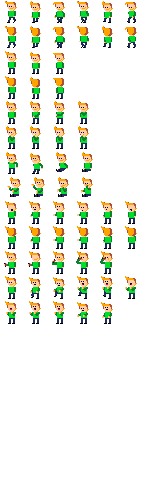
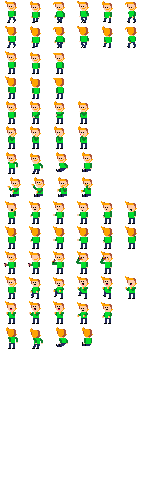
Add reverse sit

diff --git a/src/game/objects/ObjectInfoRegistry.ts b/src/game/objects/ObjectInfoRegistry.ts
@@ -28,36 +28,36 @@ export class ObjectInfoRegistry {
         this.objectInfos.push(new ObjectInfo(
             'Dispenser',
             [
-                new SpriteInfo('dispenser', [DIRECTION.BOTTOM], 4, -4, 3, -13, 0, 0)
+                new SpriteInfo('dispenser', [DIRECTION.BOTTOM], 4, -4, 3, -13, 0, 0, false, false)
             ],
             new Price(70)
         ));
         this.objectInfos.push(new ObjectInfo(
             'Sofa',
             [
-                new SpriteInfo('sofa', [DIRECTION.LEFT, DIRECTION.TOP, DIRECTION.RIGHT, DIRECTION.BOTTOM], 0, -8, 3, 0, 0, 0)
+                new SpriteInfo('sofa', [DIRECTION.LEFT, DIRECTION.TOP, DIRECTION.RIGHT, DIRECTION.BOTTOM], 0, -8, 3, 0, 0, 0, null, false)
             ],
             new Price(10)
         ));
         this.objectInfos.push(new ObjectInfo(
             'Desk',
             [
-                new SpriteInfo('chair', [DIRECTION.BOTTOM, DIRECTION.TOP, DIRECTION.LEFT], -10, -8, 5, 0, 0, 0),
-                new SpriteInfo('desk', [],0, 0, 4, 0, 0, 0)
+                new SpriteInfo('chair', [DIRECTION.BOTTOM, DIRECTION.TOP, DIRECTION.LEFT], -10, -8, 5, 0, 0, 0, false, false),
+                new SpriteInfo('desk', [],0, 0, 4, 0, 0, 0, false, false)
             ],
             new Price(20)
         ));
         this.objectInfos.push(new ObjectInfo(
             'Table',
             [
-                new SpriteInfo('chair2', [DIRECTION.TOP, DIRECTION.LEFT], -8, -9, 5, 0, 1, 1),
-                new SpriteInfo('table', [], 0, 0, 4, 0, 1, 1),
-                new SpriteInfo('chair2', [DIRECTION.BOTTOM, DIRECTION.LEFT], -8, -9, 5, 0, 1, 0),
-                new SpriteInfo('table', [], 0, 0, 4, 0, 1, 0),
-                new SpriteInfo('table_reverse', [], 0, 0, 4, 0, 0, 1),
-                new SpriteInfo('chair2_reverse', [DIRECTION.TOP, DIRECTION.RIGHT], 6, -5, 5, 0, 0, 1),
-                new SpriteInfo('table_reverse', [], 0, 0, 4, 0, 0, 0),
-                new SpriteInfo('chair2_reverse', [DIRECTION.BOTTOM, DIRECTION.RIGHT], 6, -5, 5, 0, 0, 0),
+                new SpriteInfo('chair2', [DIRECTION.TOP, DIRECTION.LEFT], -8, -9, 5, 0, 1, 1, false, false),
+                new SpriteInfo('table', [], 0, 0, 4, 0, 1, 1, false, false),
+                new SpriteInfo('chair2', [DIRECTION.BOTTOM, DIRECTION.LEFT], -8, -9, 5, 0, 1, 0, false, false),
+                new SpriteInfo('table', [], 0, 0, 4, 0, 1, 0, false, false),
+                new SpriteInfo('table_reverse', [], 0, 0, 10, 0, 0, 1, true, true),
+                new SpriteInfo('chair2_reverse', [DIRECTION.TOP, DIRECTION.RIGHT], 6, -5, 5, 0, 0, 1, true, true),
+                new SpriteInfo('table_reverse', [], 0, 0, 10, 0, 0, 0, true, true),
+                new SpriteInfo('chair2_reverse', [DIRECTION.BOTTOM, DIRECTION.RIGHT], 6, -5, 5, 0, 0, 0, true, true),
             ],
             new Price(12)
         ));

diff --git a/src/game/human_states/SitTalkState.ts b/src/game/human_states/SitTalkState.ts
@@ -38,9 +38,13 @@ export class SitTalkState extends AbstractState {
     getNextState(): HumanState {
         if (!this.isHumanOnTheRightCell && this.isNeighborPosition()) {
             this.isHumanOnTheRightCell = true;
-            this.human.interactWith(this.meeting.getCell(this.human), this.meeting.getTable().forceOrientation());
+            this.human.interactWith(this.meeting.getCell(this.human), this.meeting.getTable().forceOrientation(this.meeting.getCell(this.human).getIdentifier()));
             this.events.push(this.game.time.events.add(this.human.getWalkDuration() + 100, () => {
-                this.human.loadAnimation(ANIMATION.SIT_DOWN, this.meeting.getTable().forceOrientation());
+                this.human.loadAnimation(
+                    ANIMATION.SIT_DOWN,
+                    this.meeting.getTable().forceOrientation(this.meeting.getCell(this.human).getIdentifier()),
+                    this.table.forceTopOrientation(this.meeting.getCell(this.human).getIdentifier())
+                );
                 this.isHumanSit = true;
             }));
         }
@@ -117,7 +121,7 @@ export class SitTalkState extends AbstractState {
             this.game.time.events.remove(event);
         });
         this.human.hideTalkBubble();
-        this.human.loadAnimation(ANIMATION.STAND_UP, this.meeting.getTable().forceOrientation());
+        this.human.loadAnimation(ANIMATION.STAND_UP, this.meeting.getTable().forceOrientation(this.meeting.getCell(this.human).getIdentifier()));
         this.events.push(this.game.time.events.add(HumanAnimationManager.getAnimationTime(ANIMATION.STAND_UP) + 100, () => {
             this.human.goToFreeCell(this.meeting.getCell(this.human));
             this.events.push(this.game.time.events.add(this.human.getWalkDuration() + 100, () => {

diff --git a/src/game/objects/SpriteInfo.ts b/src/game/objects/SpriteInfo.ts
@@ -9,6 +9,8 @@ export class SpriteInfo {
     private gapLeft: number;
     private entryPoints: DIRECTION[];
     private cellGap: PIXI.Point;
+    private topOriented: boolean;
+    private leftOriented: boolean;
 
     constructor(
         name: string,
@@ -18,7 +20,9 @@ export class SpriteInfo {
         anchorBottom: number,
         gapLeft: number,
         cellGapX: number,
-        cellGapY: number
+        cellGapY: number,
+        leftOriented: boolean,
+        topOriented: boolean
     ) {
         this.name = name;
         this.entryPoints = entryPoints;
@@ -27,6 +31,8 @@ export class SpriteInfo {
         this.anchorBottom = anchorBottom;
         this.gapLeft = gapLeft;
         this.cellGap = new PIXI.Point(cellGapX, cellGapY);
+        this.leftOriented = leftOriented;
+        this.topOriented = topOriented;
     }
 
     getSpriteName(): string {
@@ -86,5 +92,20 @@ export class SpriteInfo {
         } else {
             return new PIXI.Point(this.cellGap.y, this.cellGap.x)
         }
+    }
+
+    getTopOrientation(): boolean {
+        return this.topOriented;
+    }
+
+    /**
+     * Returns false if the user looks to the right when he interacts with the object.
+     * Returns true if the user looks to the left when he interacts with the object.
+     *
+     * @param {boolean} leftOriented
+     * @returns {boolean}
+     */
+    getOrientation(leftOriented: boolean): boolean {
+        return leftOriented ? !this.leftOriented : this.leftOriented;
     }
 }

diff --git a/src/game/human_stuff/HumanAnimationManager.ts b/src/game/human_stuff/HumanAnimationManager.ts
@@ -57,8 +57,8 @@ export class HumanAnimationManager {
         switch (animation) {
             case ANIMATION.FREEZE: return topOriented ? [18, 19, 20] : [12, 13, 14];
             case ANIMATION.WALK: return topOriented ? [6, 7, 8, 9, 10, 11] : [0, 1, 2, 3, 4, 5];
-            case ANIMATION.SIT_DOWN: return [12, 36, 37, 38, 39];
-            case ANIMATION.STAND_UP: return [39, 38, 37, 36, 12];
+            case ANIMATION.SIT_DOWN: return topOriented ? [18, 78, 79, 80, 81] : [12, 36, 37, 38, 39];
+            case ANIMATION.STAND_UP: return topOriented ? [81, 80, 79, 78, 18] : [39, 38, 37, 36, 12];
             case ANIMATION.TYPE: return [42, 43, 44, 45];
             case ANIMATION.TALK: return topOriented ? [54, 55, 56, 57, 58, 59] : [48, 49, 50, 51, 52, 53];
             case ANIMATION.RAGE:
@@ -101,7 +101,13 @@ export class HumanAnimationManager {
     }
 
     private static hasTopOrientedVariation(animation: ANIMATION) {
-        return [ANIMATION.WALK, ANIMATION.FREEZE, ANIMATION.TALK].indexOf(animation) > -1;
+        return [
+            ANIMATION.WALK,
+            ANIMATION.FREEZE,
+            ANIMATION.TALK,
+            ANIMATION.SIT_DOWN,
+            ANIMATION.STAND_UP
+        ].indexOf(animation) > -1;
     }
 
 

diff --git a/src/game/objects/Sofa.ts b/src/game/objects/Sofa.ts
@@ -3,7 +3,6 @@ import {AbstractObject} from "./AbstractObject";
 import {ObjectDeleter} from "./ObjectDeleter";
 import {GROUP_INFOS} from "../game_state/Play";
 import {DeletableObjectInterface} from "./DeletableObjectInterface";
-import {Price} from "./Price";
 
 export class Sofa extends AbstractObject implements InteractiveObjectInterface, DeletableObjectInterface {
     create(game: Phaser.Game, groups: {[index: string] : Phaser.Group}) {
@@ -12,11 +11,7 @@ export class Sofa extends AbstractObject implements InteractiveObjectInterface, 
         ObjectDeleter.makeDeletable(this, game, groups[GROUP_INFOS]);
     }
 
-    forceOrientation(): boolean {
+    forceOrientation(subObjectNumber: number): boolean {
         return null;
     }
-
-    // static getPrice(): Price {
-    //     return new Price(150);
-    // }
 }

diff --git a/src/game/objects/InteractiveObjectInterface.ts b/src/game/objects/InteractiveObjectInterface.ts
@@ -7,10 +7,15 @@ export interface InteractiveObjectInterface extends ObjectInterface {
     getEntries(objectNumber: number): DIRECTION[];
 
     /**
-     * Returns true if the human has to be right-sided, false if the human has to be left-sided, null if percentage.
+     * Returns true if the human has to be right-sided, false if the human has to be left-sided, null if don't care.
      * @returns {boolean}
      */
-    forceOrientation(): boolean;
+    forceOrientation(subObjectNumber: number): boolean;
+
+    /**
+     * Returns true if the human has to be top-sided, false if the human has to be bottom-sided, null if don't care.
+     */
+    forceTopOrientation(subObjectNumber: number): boolean;
 
     isUsed(subObjectNumber: number): boolean;
 

diff --git a/src/game/objects/AbstractObject.ts b/src/game/objects/AbstractObject.ts
@@ -77,8 +77,16 @@ export abstract class AbstractObject implements InteractiveObjectInterface {
         });
     }
 
-    forceOrientation(): boolean {
-        return this.leftOriented;
+    forceOrientation(subObjectNumber: number): boolean {
+        const infos = ObjectInfoRegistry.getObjectInfo(this.constructor.name);
+
+        return infos.getSpriteInfo(subObjectNumber).getOrientation(this.leftOriented);
+    }
+
+    forceTopOrientation(subObjectNumber: number): boolean {
+        const infos = ObjectInfoRegistry.getObjectInfo(this.constructor.name);
+
+        return infos.getSpriteInfo(subObjectNumber).getTopOrientation();
     }
 
     getCellPositionSubObject(subObjectNumber: number): PIXI.Point {

diff --git a/src/game/human_states/SitState.ts b/src/game/human_states/SitState.ts
@@ -18,7 +18,7 @@ export class SitState extends MoveThenActAbstractState {
     }
 
     protected act() {
-        this.human.loadAnimation(ANIMATION.SIT_DOWN, this.objectReferer.getObject().forceOrientation());
+        this.human.loadAnimation(ANIMATION.SIT_DOWN, this.objectReferer.getObject().forceOrientation(this.objectReferer.getIdentifier()));
         this.human.updateMoodFromState();
         this.events.push(this.game.time.events.add(Phaser.Math.random(3, 10) * Phaser.Timer.SECOND + HumanAnimationManager.getAnimationTime(ANIMATION.SIT_DOWN), () => {
             this.human.loadAnimation(ANIMATION.STAND_UP);

diff --git a/src/game/human_states/MoveThenActAbstractState.ts b/src/game/human_states/MoveThenActAbstractState.ts
@@ -41,7 +41,7 @@ export abstract class MoveThenActAbstractState extends AbstractState {
 
         if (!this.isHumanOnTheRightCell && this.isNeighborPosition()) {
             this.isHumanOnTheRightCell = true;
-            this.human.interactWith(this.objectReferer, this.objectReferer.getObject().forceOrientation());
+            this.human.interactWith(this.objectReferer, this.objectReferer.getObject().forceOrientation(this.objectReferer.getIdentifier()));
             this.events.push(this.game.time.events.add(this.human.getWalkDuration() + 100, () => {
                 this.act();
             }));

diff --git a/src/game/human_states/TypeState.ts b/src/game/human_states/TypeState.ts
@@ -18,7 +18,7 @@ export class TypeState extends MoveThenActAbstractState {
     }
 
     protected act(): void {
-        this.human.loadAnimation(ANIMATION.SIT_DOWN, this.objectReferer.getObject().forceOrientation());
+        this.human.loadAnimation(ANIMATION.SIT_DOWN, this.objectReferer.getObject().forceOrientation(this.objectReferer.getIdentifier()));
         this.events.push(this.game.time.events.add(HumanAnimationManager.getAnimationTime(ANIMATION.SIT_DOWN), () => {
             this.human.loadAnimation(ANIMATION.TYPE);
             this.worldKnowledge.addProgress(this.human.getType(), 1);

diff --git a/src/game/human_stuff/HumanStateManager.ts b/src/game/human_stuff/HumanStateManager.ts
@@ -207,6 +207,7 @@ export class HumanStateManager {
             case STATE.TALK: result[MOOD.SOCIAL] = 0.5; break;
             case STATE.SIT: result[MOOD.RELAXATION] = 0.2; break;
             case STATE.COFFEE: result[MOOD.HUNGER] = 0.5; break;
+            case STATE.SIT_TALK: result[MOOD.SOCIAL] = 0.6; break;
         }
 
         return result;
